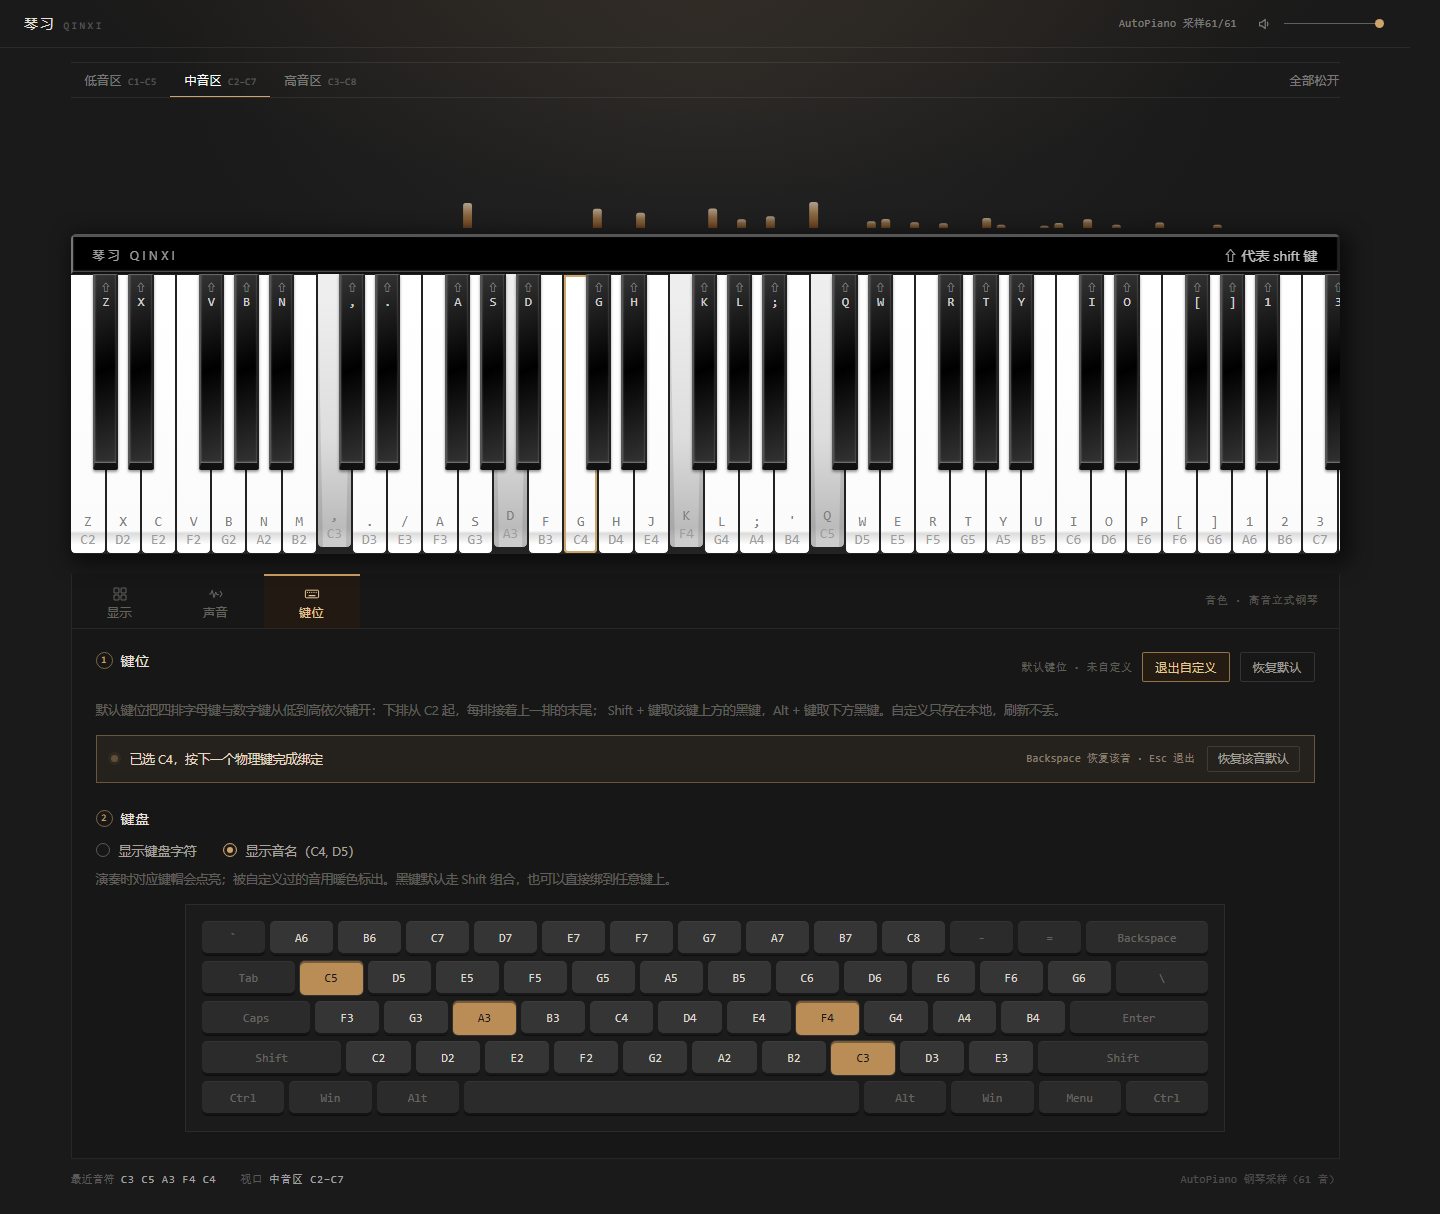
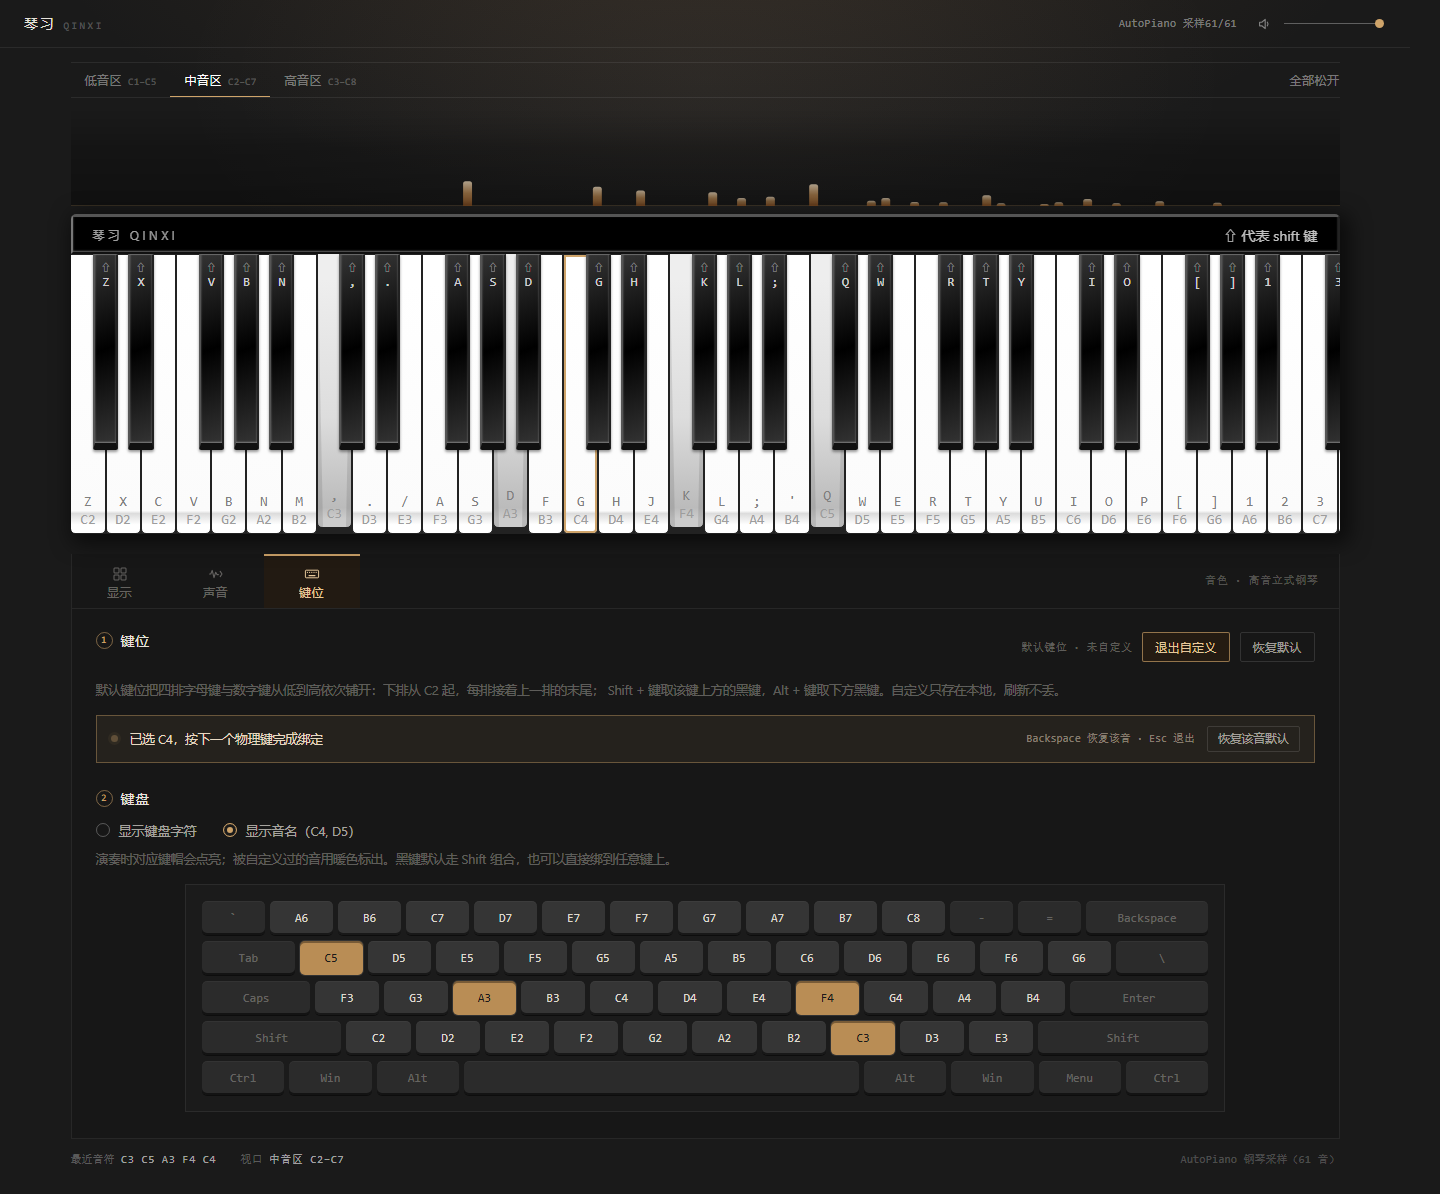
polish: 频谱区加暗底与基线，柱子改用逐根渐变
- 空闲时这块区域不再像漏掉一块，而是有意的频谱屏（极淡暗底 + 暖色基线）
- 每根柱子按自身高度生成渐变，柱尖恒为最亮米色，矮柱子不发闷
- 高度收到 96px，柱子长起来后仍能填满

diff --git a/src/components/NoteVisualizer.vue b/src/components/NoteVisualizer.vue
@@ -41,6 +41,10 @@ function draw(): void {
   if (!ctx || width === 0) return;
   ctx.clearRect(0, 0, width, height);
 
+  // 一条极淡的基线，空闲时这块区域也不会显得"坏掉了"
+  ctx.fillStyle = 'rgba(207, 164, 106, 0.2)';
+  ctx.fillRect(0, height - 1, width, 1);
+
   const span = MAX_MIDI - MIN_MIDI + 1;
   const cell = width / span;
   const barWidth = Math.max(3, Math.min(10, cell * 0.62));
@@ -160,9 +164,11 @@ defineExpose({ trigger });
 <style scoped>
 .viz {
   width: 90%;
-  height: 116px;
-  margin: 14px auto -14px;
+  height: 96px;
+  margin: 12px auto -12px;
   pointer-events: none;
+  /* 一层几乎看不出来的暗底，让这块区域像"频谱屏"而不是空隙 */
+  background: linear-gradient(180deg, rgba(0, 0, 0, 0.12), rgba(0, 0, 0, 0.34));
   /* 顶部渐隐，柱子冲到顶端不会撞出一条硬边 */
   mask-image: linear-gradient(to top, rgba(0, 0, 0, 1) 62%, rgba(0, 0, 0, 0) 100%);
   -webkit-mask-image: linear-gradient(to top, rgba(0, 0, 0, 1) 62%, rgba(0, 0, 0, 0) 100%);
